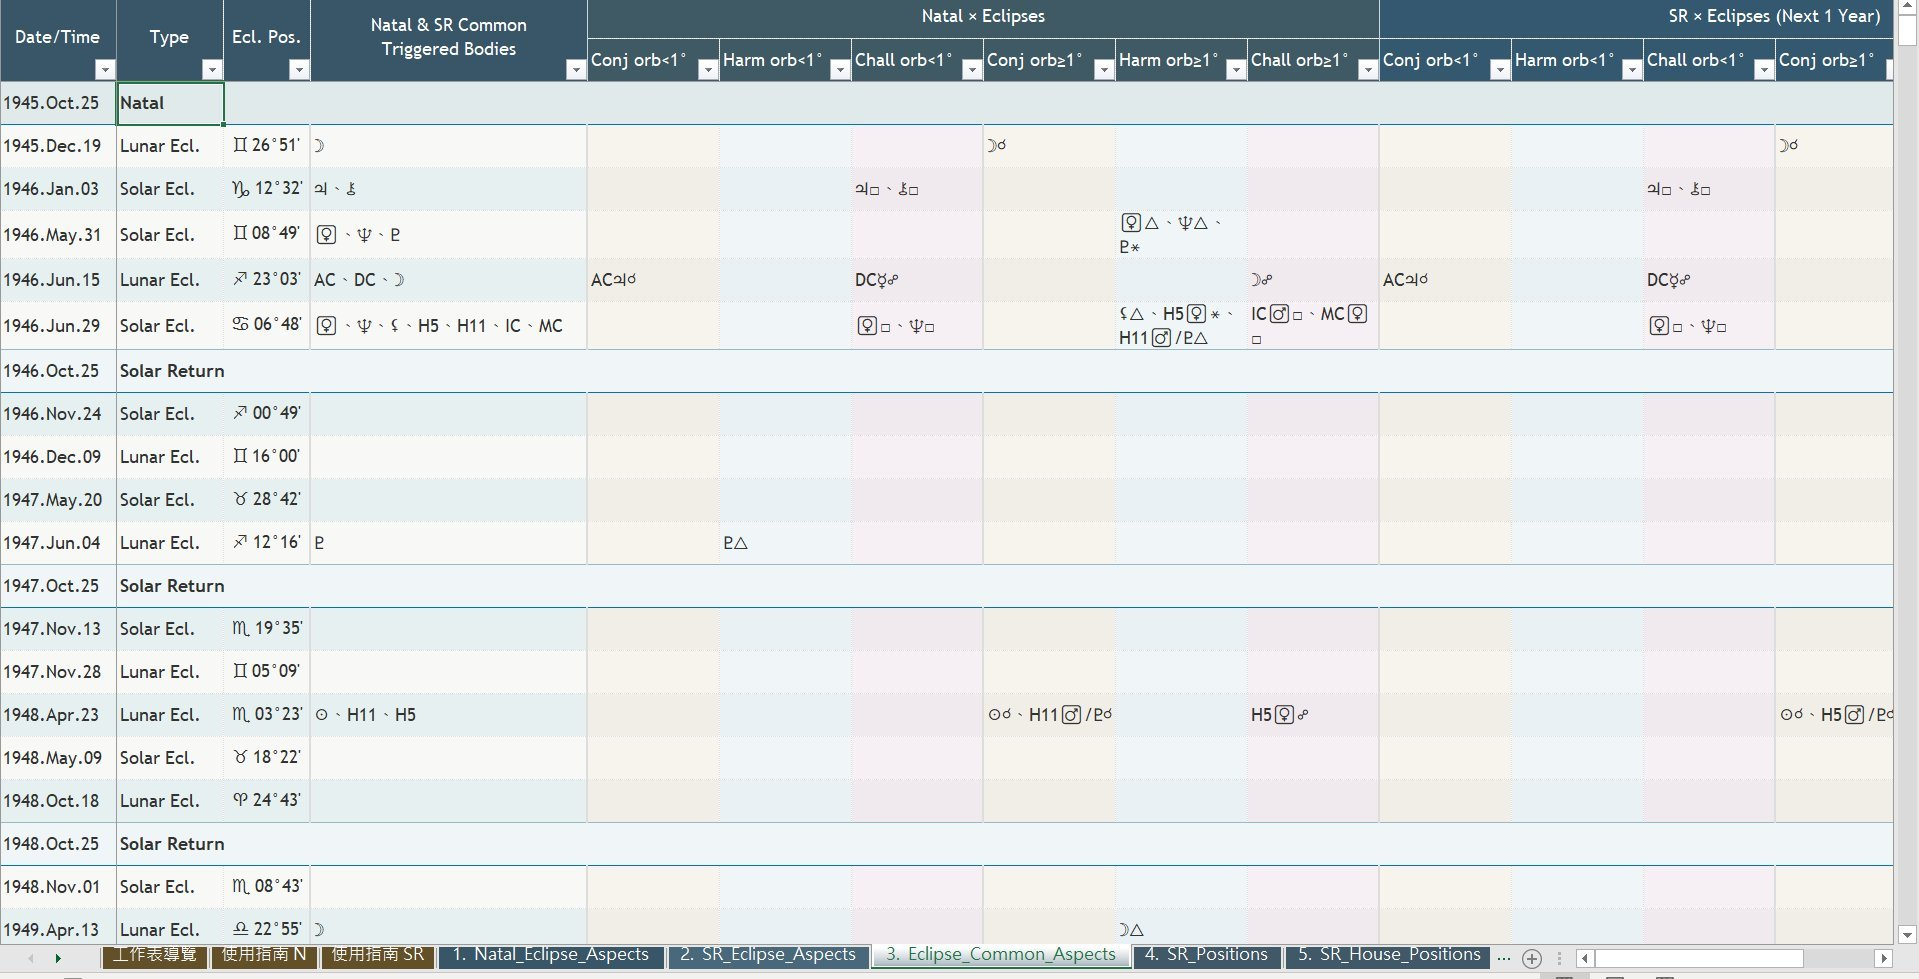
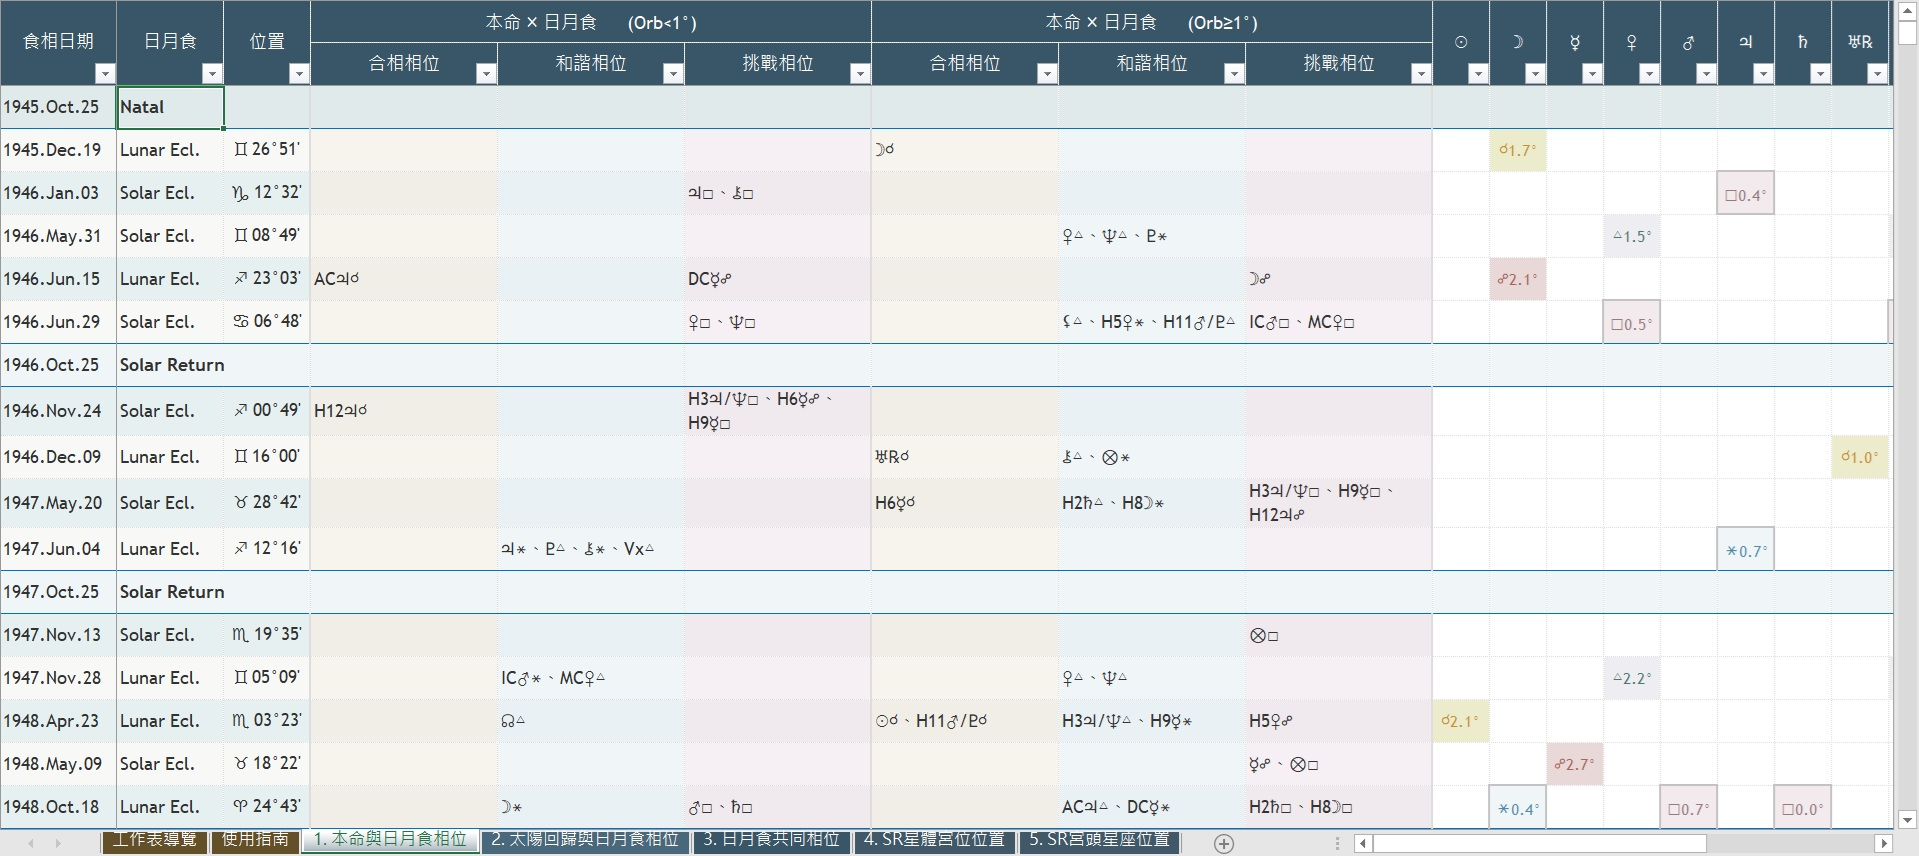
Add files via upload

diff --git a/index.html b/index.html
@@ -946,11 +946,19 @@ const PRODUCTS = {
   'Ecli': {
     zh: '日月食相位分析',
     en: 'Eclipse Aspect Analysis',
-    imgs: ['Ecli-1.jpg','Ecli-2.jpg','Ecli-3.jpg'],
+    imgs: ['Ecli-1.jpg','Ecli-2.jpg','Ecli-3.jpg','Ecli-4.jpg','Ecli-5.jpg','Ecli-6.jpg','Ecli-7.jpg','Ecli-8.jpg','Ecli-9.jpg','Ecli-10.jpg'],
+    wideImgs: ['Ecli-3.jpg','Ecli-4.jpg','Ecli-5.jpg','Ecli-6.jpg','Ecli-7.jpg','Ecli-8.jpg','Ecli-9.jpg','Ecli-10.jpg'],
     captions: [
       '工作表導覽 — 5 張工作表，4 大類別',
-      'SR_Eclipse_Aspects — 太陽回歸 × 日月食相位表，含 orb<1° 與 orb≥1° 分欄',
-      'Eclipse_Common_Aspects — 本命 & 太陽回歸日月食共同觸發星體總覽'
+      '使用指南 — 工作表索引與各表用途說明',
+      '本命與日月食相位 — 本命星體 × 日月食相位，orb<1° 分欄（左半）',
+      '本命與日月食相位 — 本命星體 × 日月食相位，orb≥1° 分欄與食型（右半）',
+      '太陽回歸與日月食相位 — SR 星體 × 日月食相位，orb<1° 分欄（左半）',
+      '太陽回歸與日月食相位 — SR 星體 × 日月食相位，orb≥1° 分欄與食型（右半）',
+      '日月食共同相位 — 本命與 SR 共同觸發星體，含四欄相位分類（左半）',
+      '日月食共同相位 — 本命與 SR 共同觸發星體，含四欄相位分類（右半）',
+      'SR 星體宮位位置 — 15 個天體星座、度數、逆行與落入宮位',
+      'SR 宮頭星座位置 — 十二宮宮頭星座與度數'
     ]
   },
   '恆': {